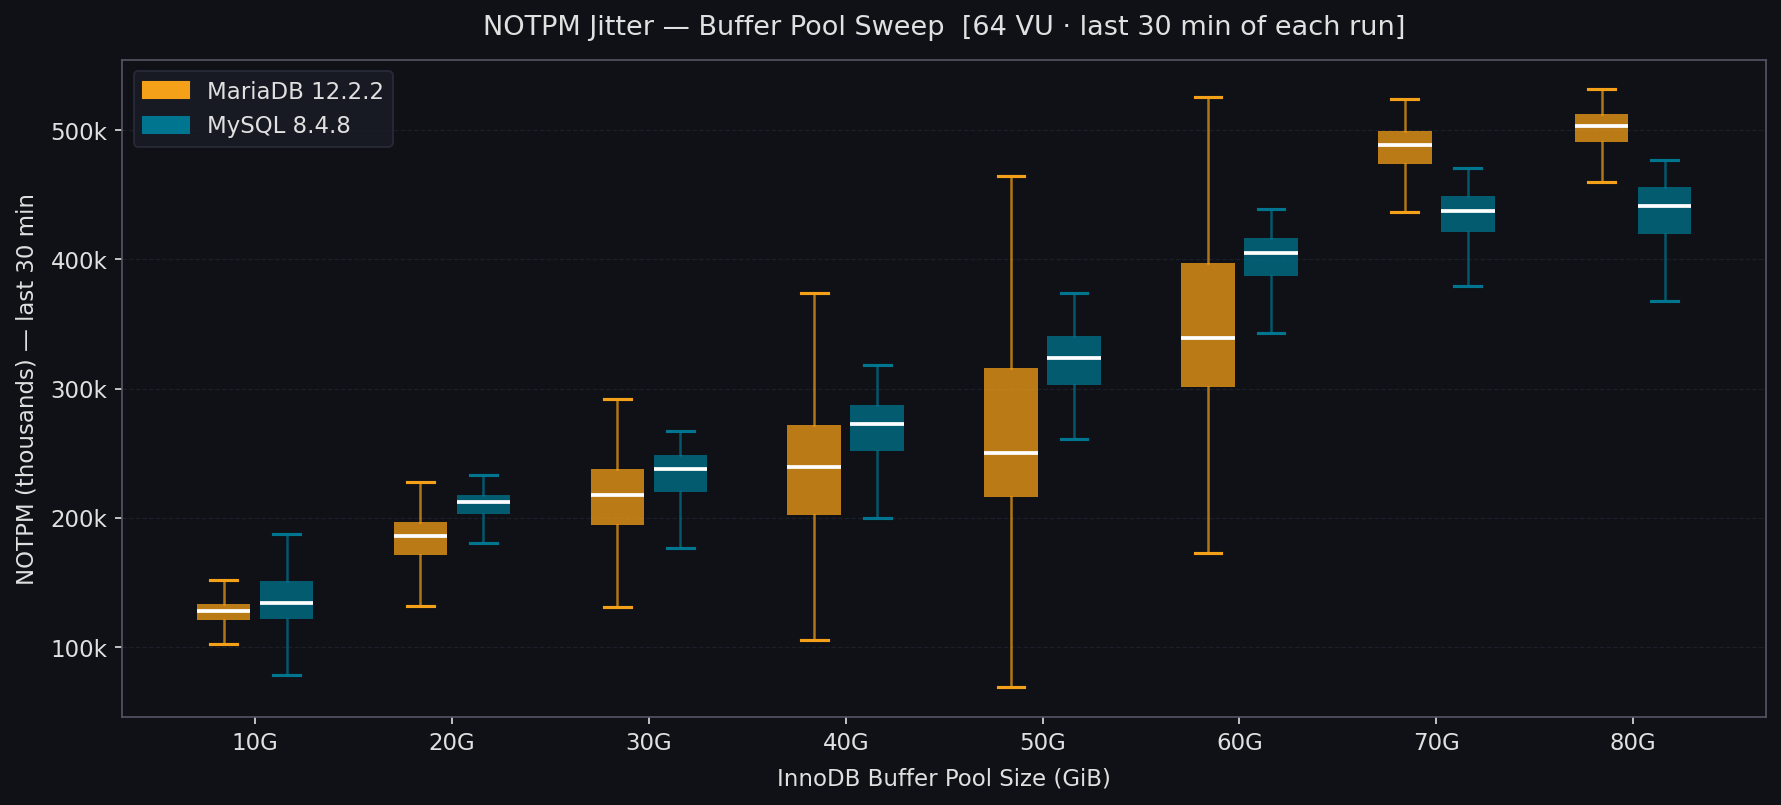
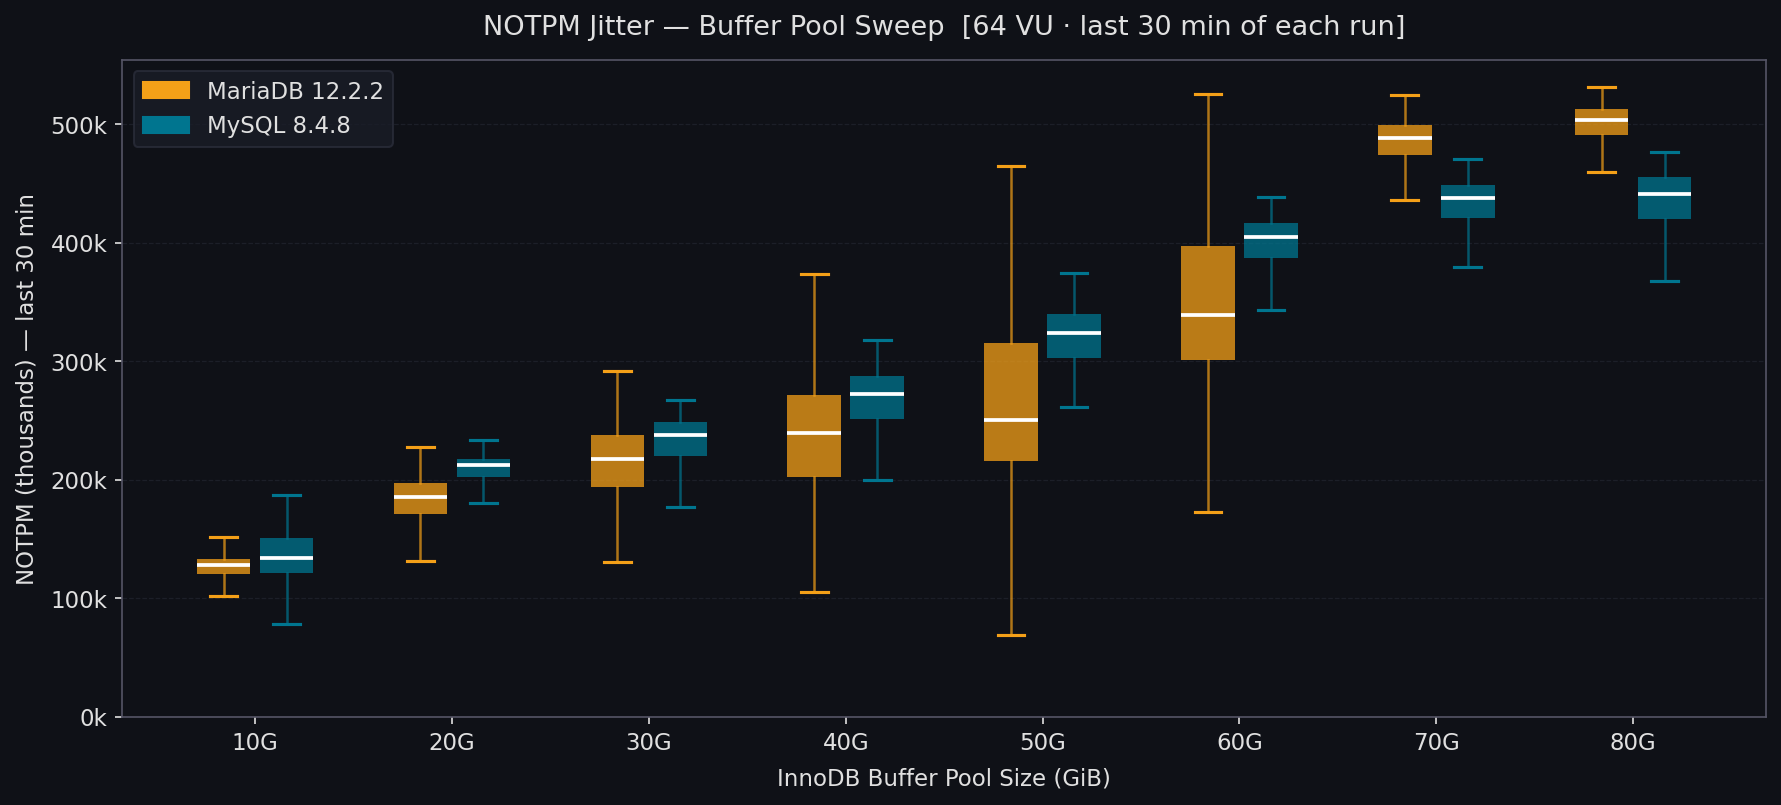
Fix Y axes to start from 0 in all charts
Applied ax.set_ylim(bottom=0) to all 6 non-log charts:
BP sweep line, VU sweep line, timeseries, BP bar, jitter BP, jitter VU.
Scaling efficiency chart (log Y) is unchanged.

diff --git a/build_report.py b/build_report.py
@@ -206,6 +206,7 @@ def make_bp_chart():
     ax.grid(axis="x", ls=":", alpha=0.3)
     ax.legend(loc="upper left")
     ax.set_xlim(8, 84)
+    ax.set_ylim(bottom=0)
     fig.tight_layout()
     return fig_to_b64(fig, "fig1_bp_line.png")
 
@@ -237,6 +238,7 @@ def make_vu_chart():
     ax.grid(axis="y", ls="--", alpha=0.5)
     ax.grid(axis="x", ls=":", alpha=0.3)
     ax.legend(loc="upper left")
+    ax.set_ylim(bottom=0)
     fig.tight_layout()
     return fig_to_b64(fig, "fig2_vu_line.png")
 
@@ -268,6 +270,7 @@ def make_timeseries_chart():
     ax.grid(axis="y", ls="--", alpha=0.5)
     ax.grid(axis="x", ls=":", alpha=0.3)
     ax.legend()
+    ax.set_ylim(bottom=0)
     fig.tight_layout()
     return fig_to_b64(fig, "fig3_timeseries.png")
 
@@ -328,6 +331,7 @@ def make_bp_bar_chart():
     ax.yaxis.set_major_formatter(plt.FuncFormatter(lambda v, _: f"{v:.0f}k"))
     ax.grid(axis="y", ls="--", alpha=0.5)
     ax.legend()
+    ax.set_ylim(bottom=0)
     fig.tight_layout()
     return fig_to_b64(fig, "fig5_bp_bar.png")
 
@@ -594,6 +598,7 @@ def make_jitter_bp_chart():
     ax.legend(handles=[mpatches.Patch(color=C_MARIA, label="MariaDB 12.2.2"),
                         mpatches.Patch(color=C_MYSQL,  label="MySQL 8.4.8")],
               loc="upper left")
+    ax.set_ylim(bottom=0)
     fig.tight_layout()
     return fig_to_b64(fig, "fig6_jitter_bp.png")
 
@@ -613,6 +618,7 @@ def make_jitter_vu_chart():
     ax.legend(handles=[mpatches.Patch(color=C_MARIA, label="MariaDB 12.2.2"),
                         mpatches.Patch(color=C_MYSQL,  label="MySQL 8.4.8")],
               loc="upper left")
+    ax.set_ylim(bottom=0)
     fig.tight_layout()
     return fig_to_b64(fig, "fig7_jitter_vu.png")
 
